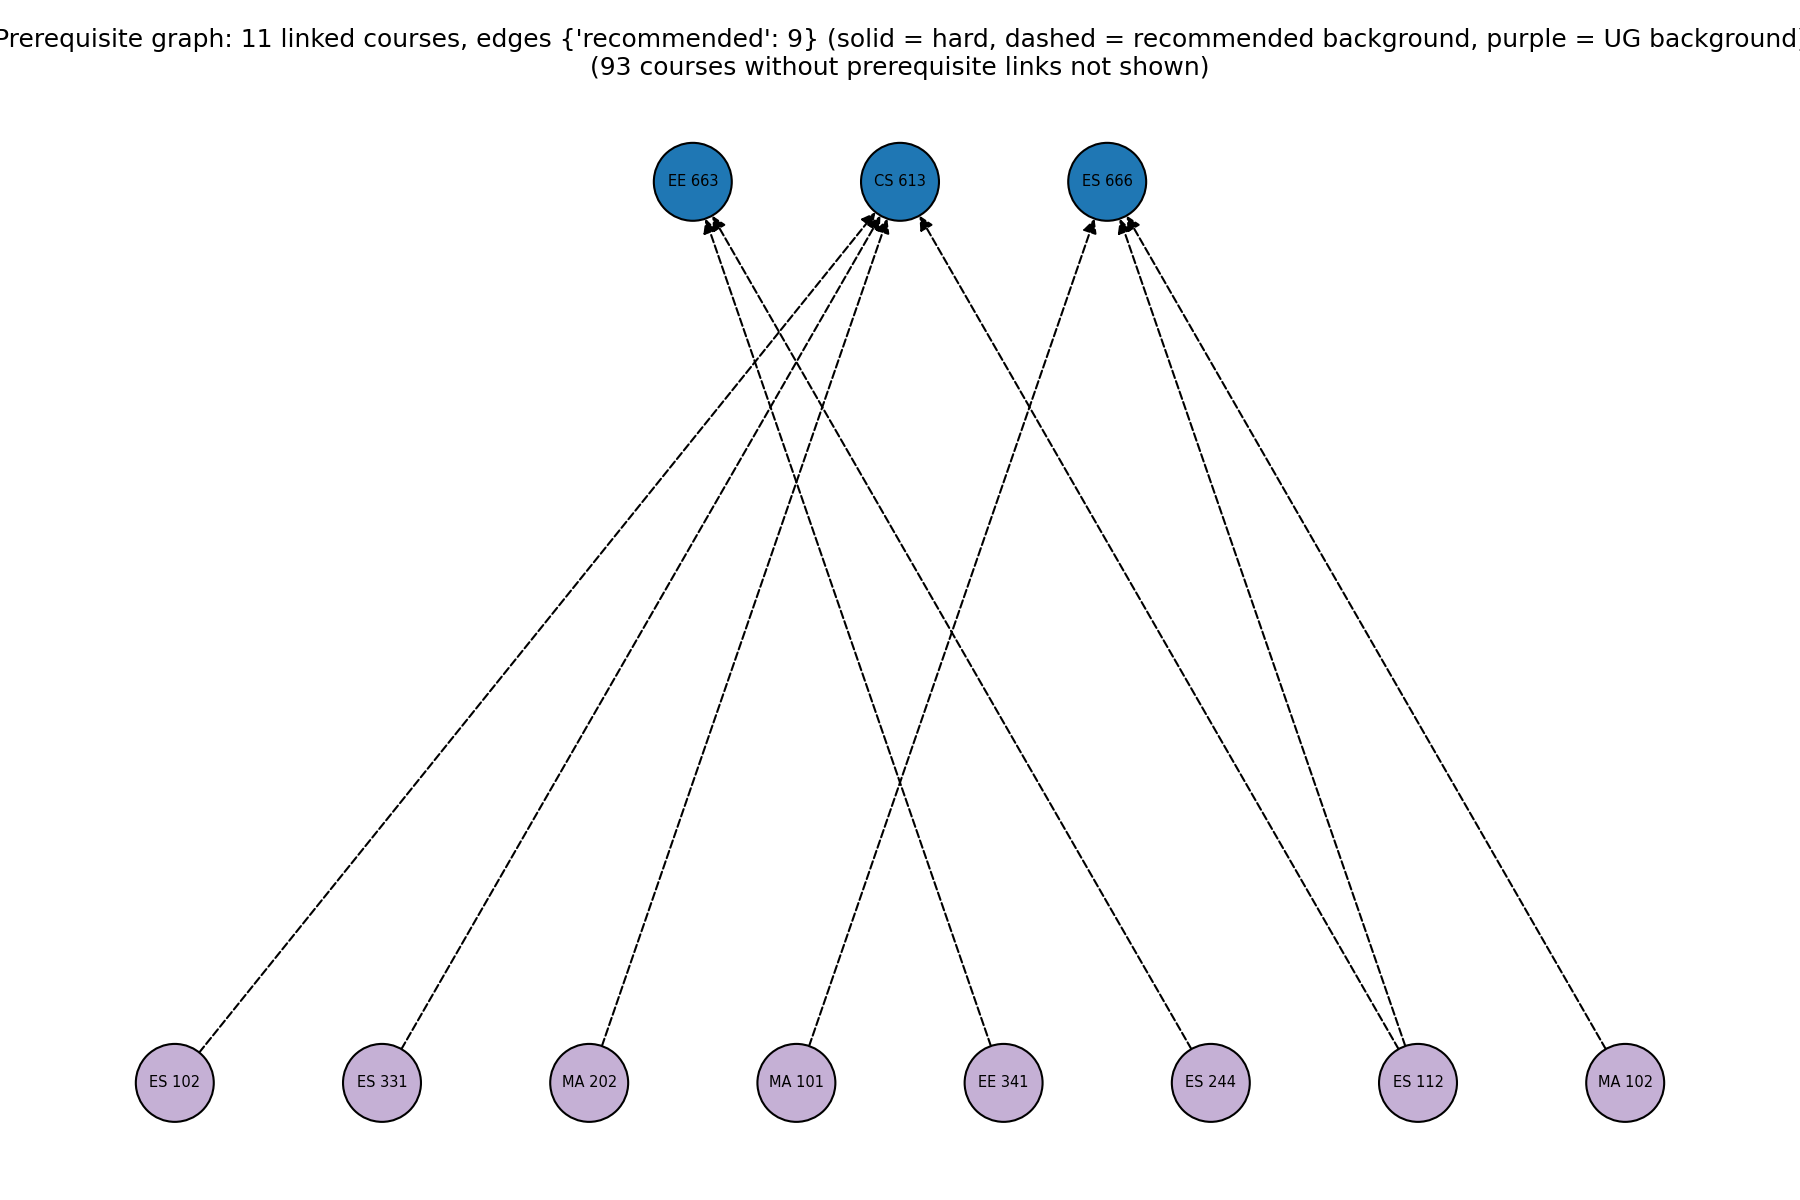
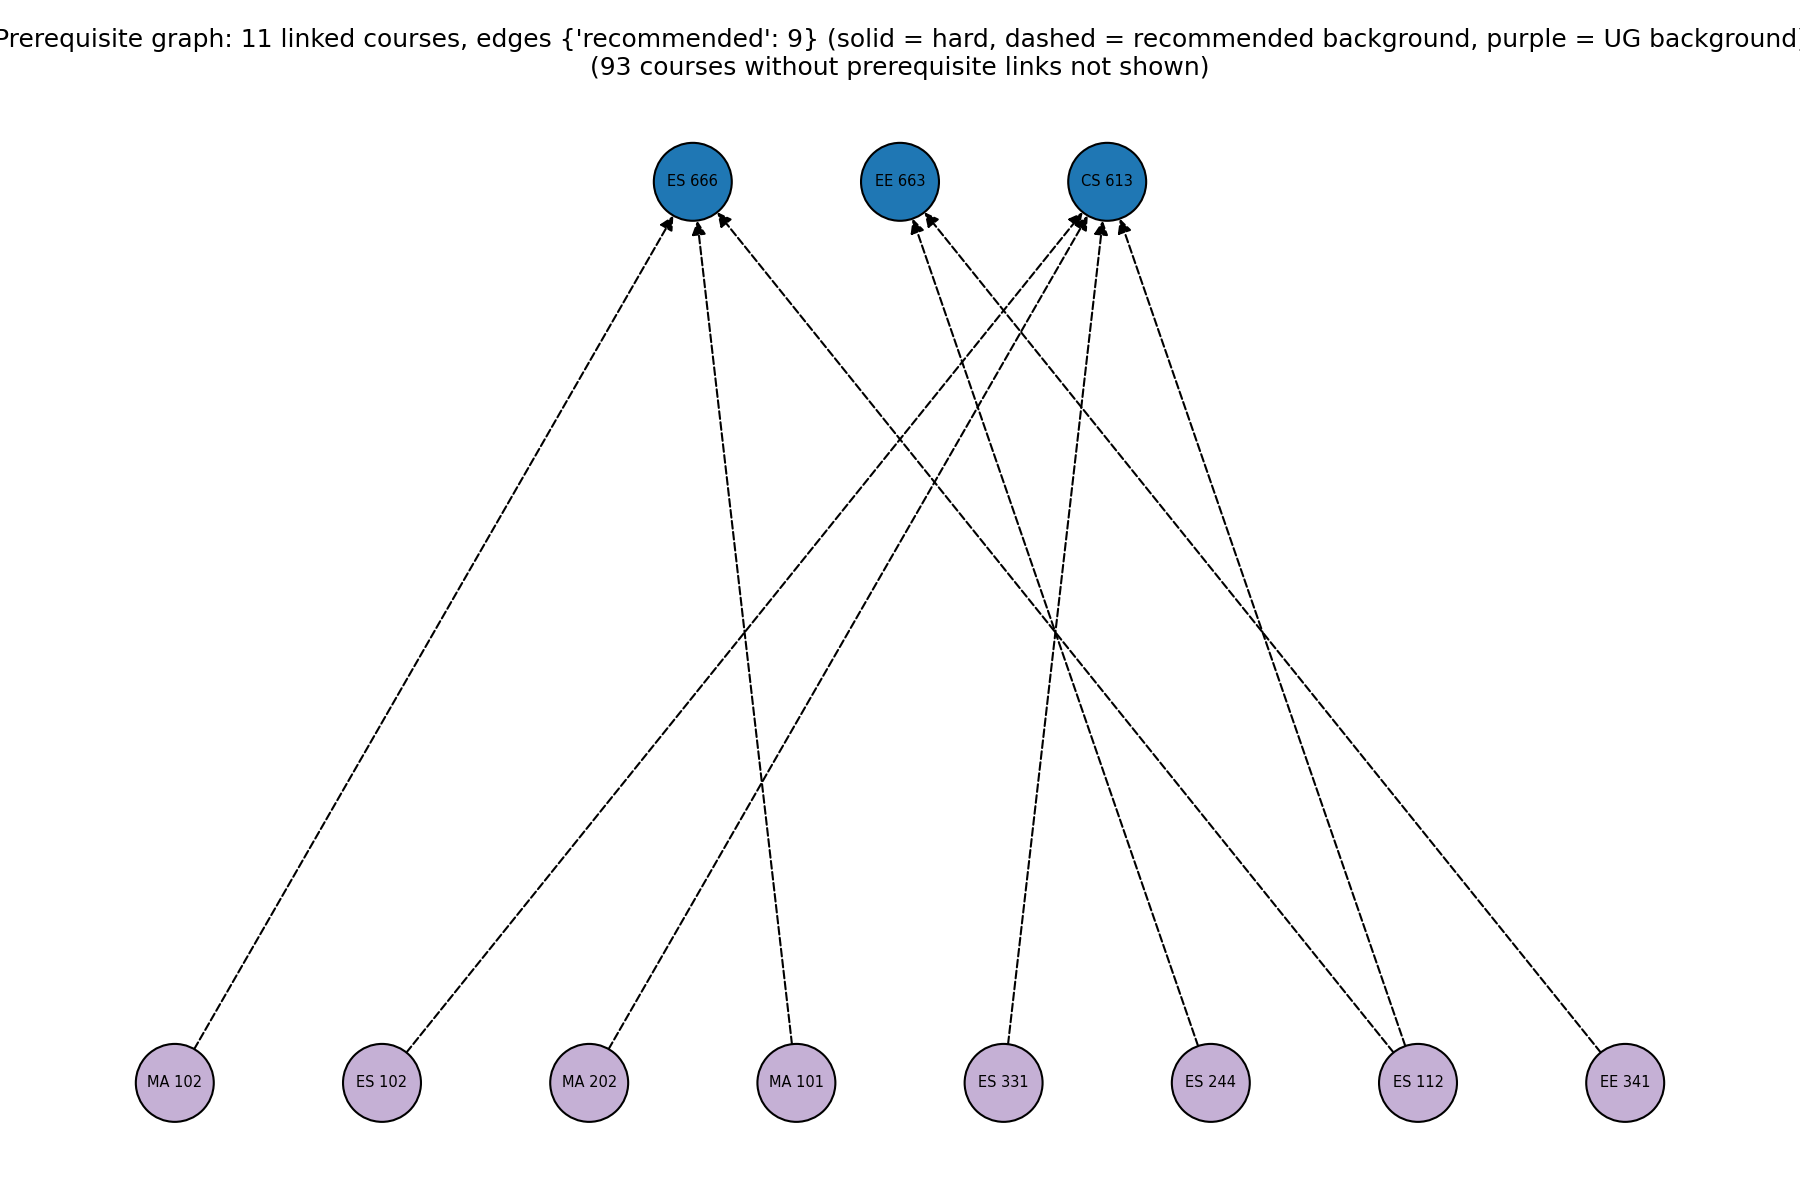
Final reproducibility check and commit counts

diff --git a/reports/report.tex b/reports/report.tex
@@ -40,9 +40,9 @@
 \newcommand{\nmeta}{3083}
 \newcommand{\nmetaraw}{578}
 \newcommand{\nmetaproc}{2505}
-\newcommand{\ncommitsH}{34}
+\newcommand{\ncommitsH}{42}
 \newcommand{\ncommitsM}{3}
-\newcommand{\freezestatus}{created after the final form import (not yet set when this was built)}
+\newcommand{\freezestatus}{set on the commit that contains this report}
 
 \title{\vspace{-1.6cm}CS 203 Assignment 1, Project 4: a course advisory dataset\\for IIT Gandhinagar M.Tech students}
 \author{Hemant (SMH, hem436) \quad Myank Singh Beniwal (MSB)}

diff --git a/supporting_files/B_validation/corrupted/results.md b/supporting_files/B_validation/corrupted/results.md
@@ -28,7 +28,7 @@ Checks run: 25. fail: 12, pass: 12, warn: 1.
 | V22 | Stored gold_json equals the rule engine output recomputed from the student | spec: gold answers recomputed by the engine equal stored gold_json | queries.jsonl | fail | 6 | 600 recomputed, 0 skipped (missing student or transcript_length augmentation) |
 | V23 | Query text (and paraphrase) does not leak gold answer markers or the gold text | spec: query text contains no leaked gold answer marker | queries.jsonl | fail | 1 |  |
 | V24 | Audited labels use allowed decisions and error categories, and edits carry text | general: label validity (decisions, error categories) | audited.jsonl | fail | 1 |  |
-| V25 | No student or template in both train and test; held-out programmes and students not in train | spec: no student or template in both train and test | splits | fail | 1 | 2137 rows; train vs test on student_id and template_id, train vs other held-out splits (['programme_holdout', 'shifted']) on student_id and programme; template families shared by train and test (by design): 7 |
+| V25 | No student or template in both train and test; held-out programmes and students not in train | spec: no student or template in both train and test | splits | fail | 1 | 2146 rows; train vs test on student_id and template_id, train vs other held-out splits (['programme_holdout', 'shifted']) on student_id and programme; template families shared by train and test (by design): 7 |
 
 ## Injected faults
 
